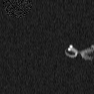
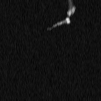
added the seglen intrinsic parameter to the yaml file

diff --git a/programs/wellFunctions.py b/programs/wellFunctions.py
@@ -1,3 +1,4 @@
+from programs.IntrinsicParameters import IntrinsicParameters
 import numpy as np
 from skimage import draw
 import cv2 as cv
@@ -95,9 +96,11 @@ def generate_a_fish_in_circle(circle, distance_from_edge = None, return_angle = 
         xVect = np.zeros((11))
         fishlen = (np.random.rand(1) - 0.5) * 30 + 70
         idxlen = np.floor((fishlen - 62) / 1.05) + 1
-        seglen = 5.6 + idxlen * 0.1
-        seglen = seglen[0]
-        seglen = 2 + np.random.rand()
+        # seglen = 5.6 + idxlen * 0.1
+        #
+        # seglen = seglen[0]
+        # seglen = 2 + np.random.rand()
+        seglen = IntrinsicParameters.seglen_distribution()
         # seglen = 7.1
 
         # Changing the distribution where the center can be to reduce looping

diff --git a/programs/IntrinsicParameters.py b/programs/IntrinsicParameters.py
@@ -29,7 +29,7 @@ class IntrinsicParameters:
     head_br_distribution = lambda: np.random.normal(0.27670705295942777, 0.05571972183069393) * 400
     head_l_distribution = lambda: np.random.normal(0.7889611717422198, 0.10205659701587598)
     head_w_distribution = lambda: np.random.normal(0.5077558460625518, 0.032475097562161506)
-
+    seglen_distribution = lambda: 2 + np.random.rand()
 
     def __init__(self, pathToYamlFile):
 
